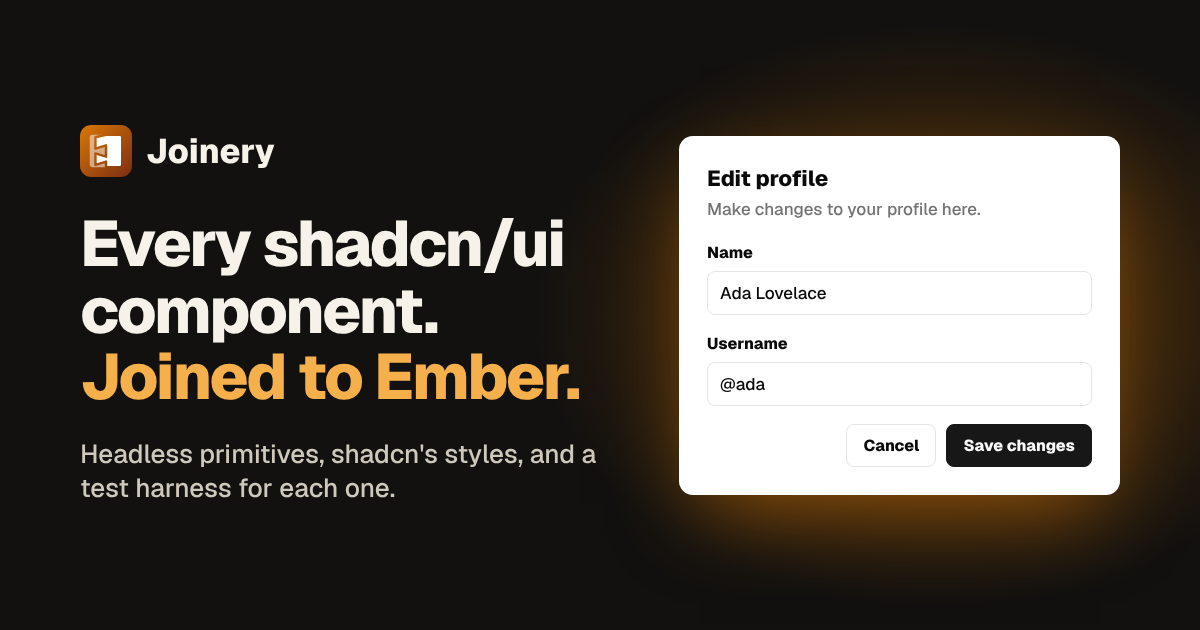
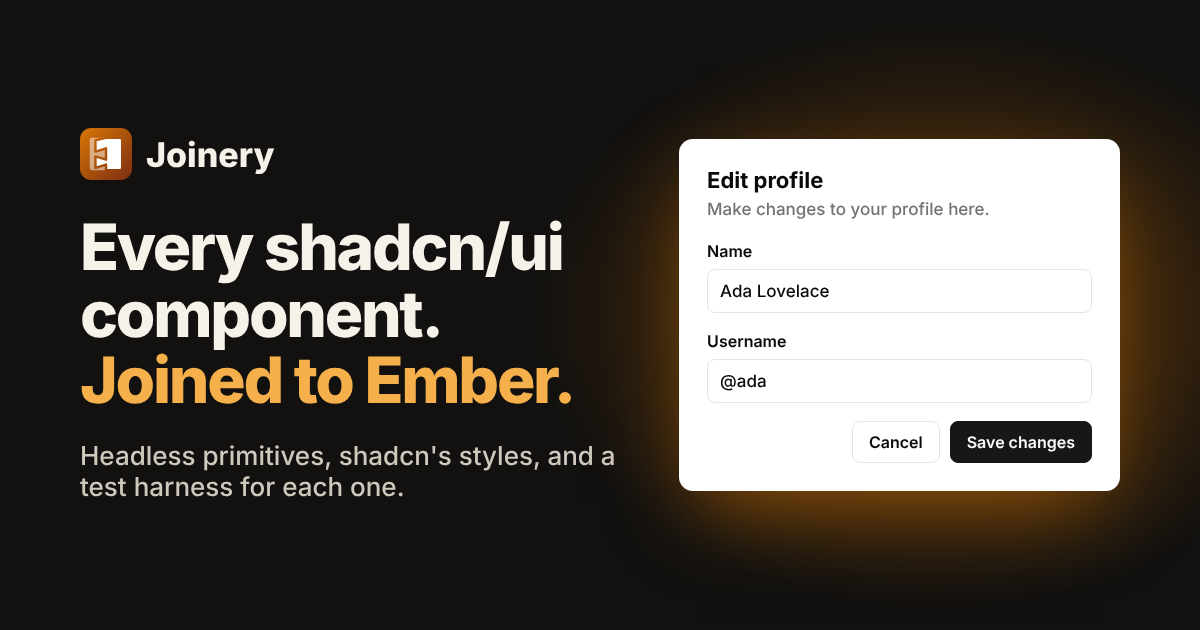
fix(site): set the site and social card in Inter, as Formwright's are
Decision 36 gives Joinery the sibling type of Formwright and real-enums, whose sites use
Inter. Geist stays in the guide and the parity runs, as the plan's defaults say. The social
card is re-rendered from docs/social-card.html.

Claude-Session: https://claude.ai/code/session_01E3gV86Uy9kEPJQTAgMfMpo

diff --git a/docs/social-card.html b/docs/social-card.html
@@ -7,7 +7,7 @@
     <title>Joinery social card</title>
     <link
       rel="stylesheet"
-      href="https://fonts.googleapis.com/css2?family=Geist:wght@500;800&family=Geist+Mono:wght@500&display=swap"
+      href="https://fonts.googleapis.com/css2?family=Inter:wght@500;600;700;800&display=swap"
     />
     <style>
       body {
@@ -20,7 +20,7 @@
         gap: 48px;
         padding: 0 80px;
         box-sizing: border-box;
-        font-family: Geist, system-ui, sans-serif;
+        font-family: Inter, system-ui, sans-serif;
         color: #f6f2ea;
         background:
           radial-gradient(36rem 26rem at 78% 50%, rgb(217 119 6 / 0.4), transparent 70%), #12110f;
@@ -99,7 +99,7 @@
         color: #fafafa;
       }
       code {
-        font-family: 'Geist Mono', monospace;
+        font-family: ui-monospace, SFMono-Regular, Menlo, monospace;
         font-size: 0.85em;
       }
     </style>

diff --git a/docs/site/site.css b/docs/site/site.css
@@ -4,8 +4,9 @@
  * demo"); until those ship, these rules use the same token names, so the switch is a deletion.
  */
 :root {
-  --font: Geist, system-ui, -apple-system, 'Segoe UI', Roboto, sans-serif;
-  --mono: 'Geist Mono', ui-monospace, SFMono-Regular, Menlo, Consolas, monospace;
+  /* Formwright's and real-enums' type. The guide uses Geist, as ui.shadcn.com does. */
+  --font: Inter, system-ui, -apple-system, 'Segoe UI', Roboto, sans-serif;
+  --mono: ui-monospace, SFMono-Regular, Menlo, Consolas, monospace;
   --background: #ffffff;
   --foreground: #1c1a17;
   --muted: #f7f6f3;

diff --git a/docs/site/index.html b/docs/site/index.html
@@ -27,7 +27,7 @@
     <link rel="preconnect" href="https://fonts.gstatic.com" crossorigin />
     <link
       rel="stylesheet"
-      href="https://fonts.googleapis.com/css2?family=Geist:wght@100..900&family=Geist+Mono:wght@100..900&display=swap"
+      href="https://fonts.googleapis.com/css2?family=Inter:wght@400;500;600;700;800&display=swap"
     />
     <link rel="stylesheet" href="site.css" />
     <link rel="icon" href="favicon.svg" type="image/svg+xml" />
